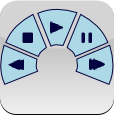
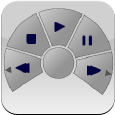
Added the center button and new gradient skin

diff --git a/src/ensemble/samples/controls/radialmenu/RadialMenuSample.java b/src/ensemble/samples/controls/radialmenu/RadialMenuSample.java
@@ -47,10 +47,15 @@ import javafx.scene.input.MouseButton;
 import javafx.scene.input.MouseEvent;
 import javafx.scene.input.RotateEvent;
 import javafx.scene.paint.Color;
+import javafx.scene.paint.CycleMethod;
+import javafx.scene.paint.LinearGradient;
+import javafx.scene.paint.LinearGradientBuilder;
+import javafx.scene.paint.StopBuilder;
 import javafx.scene.text.FontBuilder;
 import javafx.util.Duration;
 import jfxtras.labs.scene.control.radialmenu.RadialContainerMenuItem;
 import jfxtras.labs.scene.control.radialmenu.RadialMenu;
+import jfxtras.labs.scene.control.radialmenu.RadialMenu.CenterVisibility;
 import jfxtras.labs.scene.control.radialmenu.RadialMenuItem;
 import ensemble.Sample;
 
@@ -333,8 +338,58 @@ public class RadialMenuSample extends Sample {
     // }
 
     public Node createRadialMenu() {
-	this.radialMenu = new RadialMenu(-23, 30, 100, 10, Color.LIGHTBLUE,
-		Color.LIGHTBLUE.darker(), Color.DARKBLUE, false);
+
+	// final RadialGradient background = RadialGradientBuilder
+	// .create()
+	// .centerX(0)
+	// .centerY(0)
+	// .radius(0.7)
+	// .stops(StopBuilder.create().offset(0.0).color(Color.LIGHTGREY)
+	// .build(),
+	// StopBuilder.create().offset(1.0)
+	// .color(Color.LIGHTGREY.darker()).build())
+	// .build();
+
+	// final RadialGradient backgroundMouseOn = RadialGradientBuilder
+	// .create()
+	// .centerX(0)
+	// .centerY(0)
+	// .radius(1)
+	// .stops(StopBuilder.create().offset(0.0).color(Color.LIGHTGREY)
+	// .build(),
+	// StopBuilder.create().offset(1.0)
+	// .color(Color.LIGHTGREY.darker()).build())
+	// .build();
+
+	final LinearGradient background = LinearGradientBuilder
+		.create()
+		.startX(0)
+		.startY(0)
+		.endX(1.0)
+		.endY(1.0)
+		.cycleMethod(CycleMethod.NO_CYCLE)
+		.stops(StopBuilder.create().offset(0.0).color(Color.LIGHTGREY)
+			.build(),
+			StopBuilder.create().offset(0.6)
+				.color(Color.LIGHTGREY.darker()).build())
+		.build();
+
+	final LinearGradient backgroundMouseOn = LinearGradientBuilder
+		.create()
+		.startX(0)
+		.startY(0)
+		.endX(1.0)
+		.endY(1.0)
+		.cycleMethod(CycleMethod.NO_CYCLE)
+		.stops(StopBuilder.create().offset(0.0).color(Color.LIGHTGREY)
+			.build(),
+			StopBuilder.create().offset(0.8)
+				.color(Color.LIGHTGREY.darker()).build())
+		.build();
+
+	this.radialMenu = new RadialMenu(-37, 30, 100, 5, background,
+		backgroundMouseOn, Color.DARKGREY.darker().darker(),
+		Color.DARKGREY.darker(), false, CenterVisibility.ALWAYS, null);
 
 	this.radialMenu.setTranslateX(200);
 	this.radialMenu.setTranslateY(200);
@@ -408,7 +463,7 @@ public class RadialMenuSample extends Sample {
 		.image(new Image(this.getClass().getResourceAsStream(
 			"RadialMenuSample20SecIcon.png"))).build();
 	final RadialContainerMenuItem forwardItem = new RadialContainerMenuItem(
-		45, "forward", forward);
+		50, "forward", forward);
 	forwardItem.addMenuItem(new RadialMenuItem(30, "forward 5'", fiveSec,
 		handler));
 	forwardItem.addMenuItem(new RadialMenuItem(30, "forward 10'", tenSec,
@@ -418,17 +473,17 @@ public class RadialMenuSample extends Sample {
 
 	this.radialMenu.addMenuItem(forwardItem);
 
-	this.radialMenu.addMenuItem(new RadialMenuItem(45, "pause", pause,
+	this.radialMenu.addMenuItem(new RadialMenuItem(50, "pause", pause,
 		handler));
 
-	this.radialMenu.addMenuItem(new RadialMenuItem(45, "play", play,
+	this.radialMenu.addMenuItem(new RadialMenuItem(50, "play", play,
 		handler));
 
-	this.radialMenu.addMenuItem(new RadialMenuItem(45, "stop", stop,
+	this.radialMenu.addMenuItem(new RadialMenuItem(50, "stop", stop,
 		handler));
 
 	final RadialContainerMenuItem backwardItem = new RadialContainerMenuItem(
-		45, "backward", backward);
+		50, "backward", backward);
 	final ImageView fiveSecBack = ImageViewBuilder
 		.create()
 		.image(new Image(this.getClass().getResourceAsStream(
